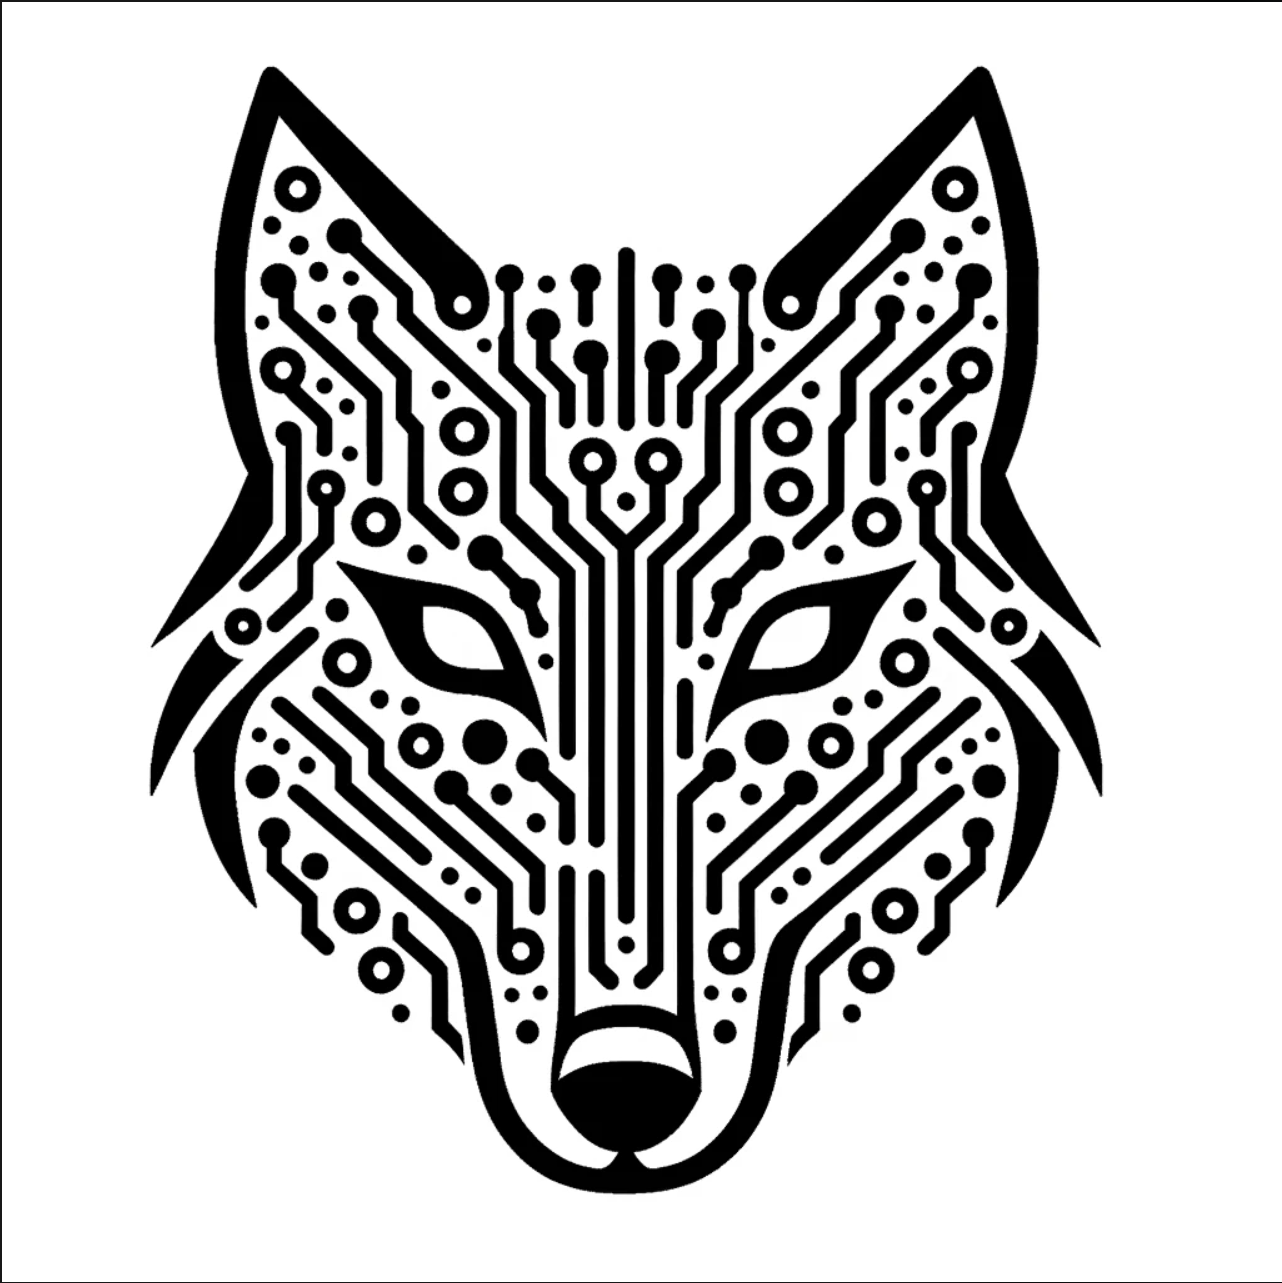
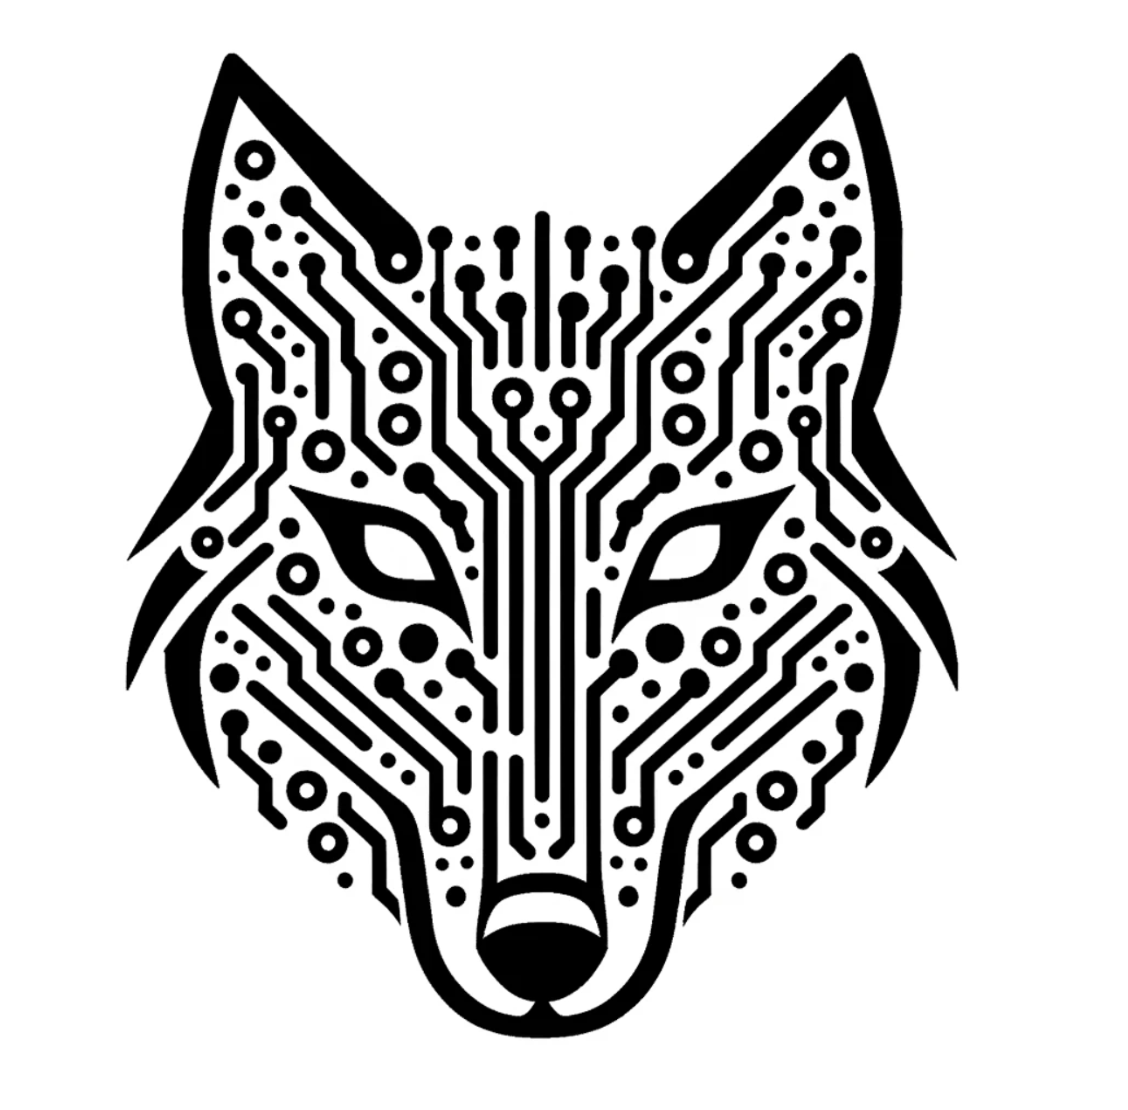
updated image and readme

Changed region(s): [[0.0931, 0.0306, 0.8688, 0.9495], [0.0, 0.0, 0.031, 0.0306]]

diff --git a/README.md b/README.md
@@ -1,17 +1,27 @@
-# decode-ai
+# Project Lupine
 ![alt text](https://github.com/binaryninja/decode-ai/blob/main/utils/static/ProjectLupine.png?raw=true)
 
 # Plugins:
+There are three Ghidra plugins each with their own configured shortcut keys.
 
+## llm.py (CTRL-ALT-L)
+This script calls your local LLM.  The plugin expects api_server.py to be running on localhost on port 8000.  Documentation for the API server can be found below.
 
-## Utilities
+## llm_remote.pt (CTRL-ALT-O)
+This script calls the Project Lupine community server.  Not that it send the hash, function offset, and decompiled code.
 
-# api_server.py
-## Overview
+## llm_suggest (CTRL-SHIFT-K)
+This script is useful for contributing back to the community.  If you get a summay, function name or step-by-step description that you don't like you can edit the content directly in Ghidra and send your edits back.
+
+# Utilities
+This section contains the api_server and several helper utilities for loading data and testing the model.
+
+## api_server.py
+### Overview
 
 This script provides an API for malware analysis. It uses FastAPI, SQLAlchemy for database operations, the Transformers library to load our local model and generate output, and langchain for interacting with OpenAI models. The core functionality is to analyze a given piece of decompiled code and provide descriptive information, such as a function summary and a new function name.
 
-## Dependencies
+### Dependencies
 
 - **fastapi**: Web framework to build the API.
 - **pydantic**: Data validation and settings management using Python type annotations.
@@ -24,19 +34,19 @@ This script provides an API for malware analysis. It uses FastAPI, SQLAlchemy fo
 - **langchain**: A module possibly related to language processing.
 - **json, re, os, time**: Standard libraries for various functionalities.
 
-## Configuration
+### Configuration
 
 - **DATABASE_URL**: The SQLite database URL.
 - **openai_key**: The API key for OpenAI.
 - **model & tokenizer**: Pre-trained models loaded using Transformers library.
 
-## Database Schema
+### Database Schema
 
 - **Function**: Represents the function table in the database with fields for ID, input, output, review status, and details related to the LLM analysis.
 - **EvaluationLog**: Logs request and response data for evaluations.
 - **Suggestion**: Contains suggestions for code analysis.
 
-## API Endpoints
+### API Endpoints
 
 1. **`/` (GET)**: Returns the main index page.
 2. **`/sample` (GET)**: Provides a sample from the dataset.
@@ -48,7 +58,7 @@ This script provides an API for malware analysis. It uses FastAPI, SQLAlchemy fo
 8. **`/suggest` (POST)**: Stores a suggestion in the Suggestion table.
 9. **`/action` (POST)**: Performs actions like approve or remove on a function.
 
-## Helper Functions
+#### Helper Functions
 
 - **`flatten_list`**: Flattens nested lists or dictionaries.
 - **`get_llm_name_with_retry`**: Attempts to get the LLM name with retries.
@@ -57,7 +67,7 @@ This script provides an API for malware analysis. It uses FastAPI, SQLAlchemy fo
 - **`llm_rename_function`**: Renames the function using LLM.
 - **`load_data_to_db`**: Loads data to the database.
 
-## Execution
+### Execution
 
 To run the FastAPI application:
 
